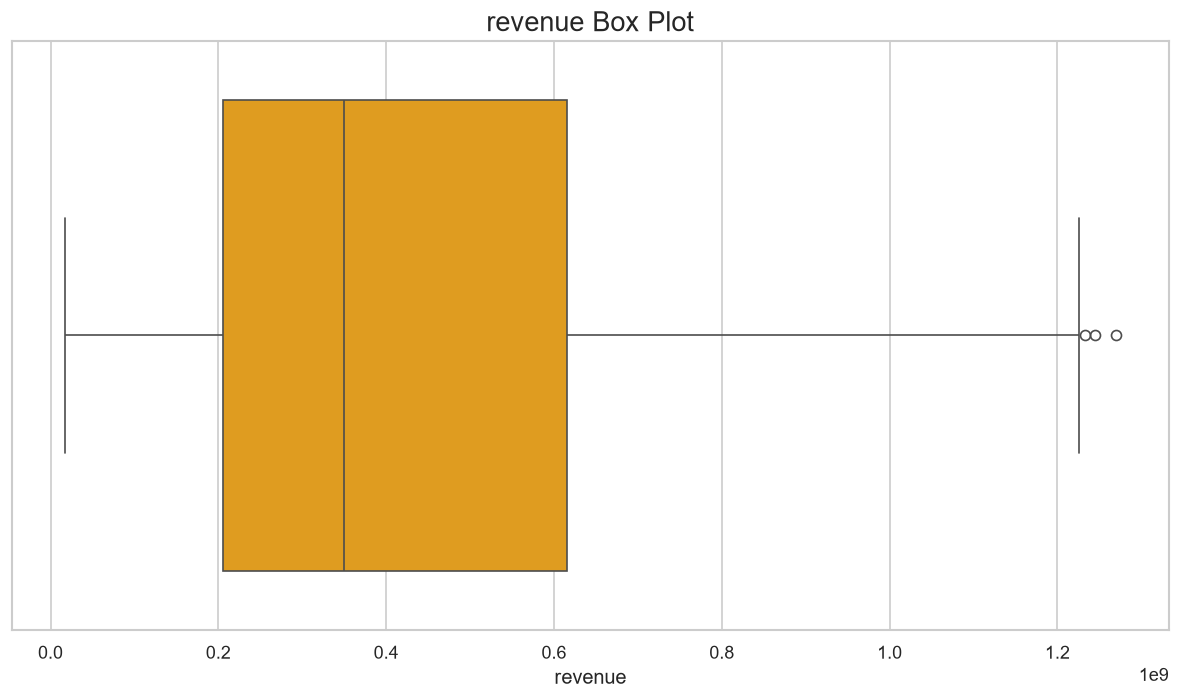
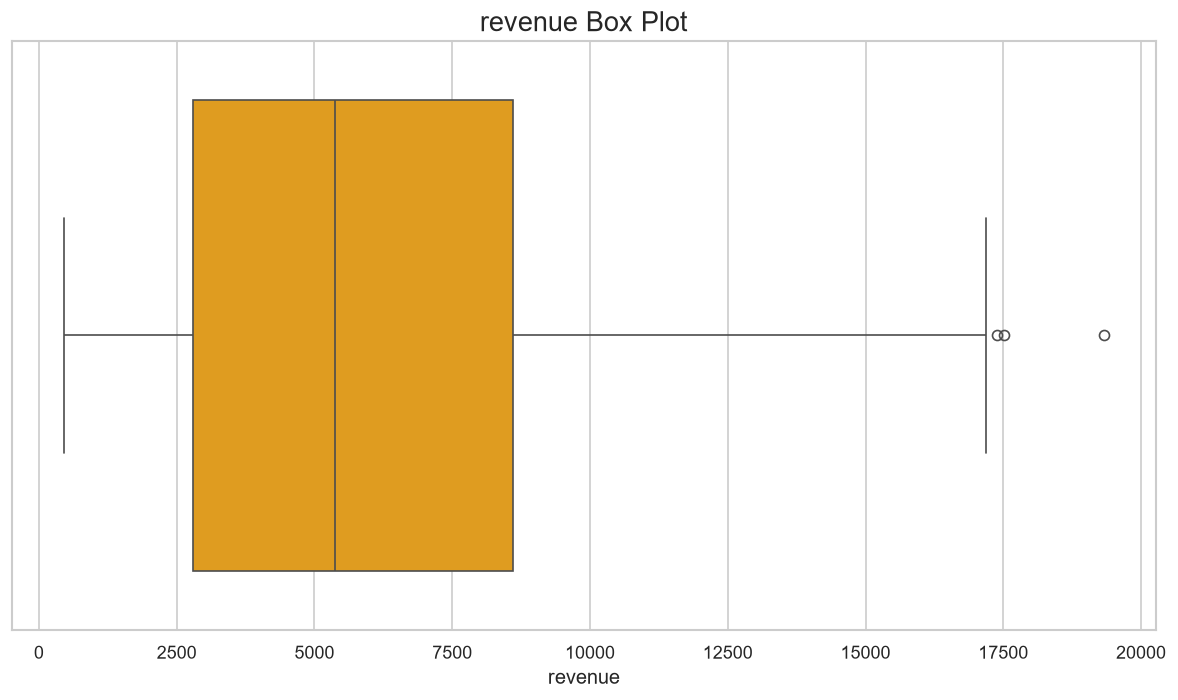
updated eda with outlier

diff --git a/backend/app/services/eda_service.py b/backend/app/services/eda_service.py
@@ -4,12 +4,14 @@ import pandas as pd
 def generate_eda(df: pd.DataFrame):
     """
     Generate Exploratory Data Analysis (EDA)
-    for the uploaded dataset.
+    including numerical statistics, categorical
+    statistics, correlations, and outlier detection.
     """
 
-    # -----------------------------
-    # Numerical Summary
-    # -----------------------------
+    # =====================================================
+    # NUMERICAL SUMMARY
+    # =====================================================
+
     numerical_summary = (
         df.describe()
         .round(2)
@@ -17,9 +19,10 @@ def generate_eda(df: pd.DataFrame):
         .to_dict()
     )
 
-    # -----------------------------
-    # Categorical Summary
-    # -----------------------------
+    # =====================================================
+    # CATEGORICAL SUMMARY
+    # =====================================================
+
     categorical_summary = {}
 
     categorical_columns = df.select_dtypes(
@@ -28,13 +31,20 @@ def generate_eda(df: pd.DataFrame):
 
     for column in categorical_columns:
 
+        mode = df[column].mode()
+
         categorical_summary[column] = {
-            "unique_values": int(df[column].nunique()),
+
+            "unique_values": int(
+                df[column].nunique()
+            ),
+
             "most_frequent": (
-                df[column].mode().iloc[0]
-                if not df[column].mode().empty
+                mode.iloc[0]
+                if not mode.empty
                 else None
             ),
+
             "top_5_values": (
                 df[column]
                 .value_counts()
@@ -43,12 +53,16 @@ def generate_eda(df: pd.DataFrame):
             )
         }
 
-    # -----------------------------
-    # Correlation Matrix
-    # -----------------------------
-    numeric_df = df.select_dtypes(include=["number"])
+    # =====================================================
+    # CORRELATION MATRIX
+    # =====================================================
+
+    numeric_df = df.select_dtypes(
+        include=["number"]
+    )
 
     if numeric_df.shape[1] >= 2:
+
         correlation_matrix = (
             numeric_df
             .corr()
@@ -56,14 +70,105 @@ def generate_eda(df: pd.DataFrame):
             .fillna("")
             .to_dict()
         )
+
     else:
+
         correlation_matrix = {}
 
-    # -----------------------------
-    # Return EDA
-    # -----------------------------
+    # =====================================================
+    # OUTLIER DETECTION
+    # =====================================================
+
+    outlier_summary = {}
+
+    for column in numeric_df.columns:
+
+        # Remove missing values
+        series = numeric_df[column].dropna()
+
+        # Need enough data to calculate meaningful quartiles
+        if len(series) < 4:
+            continue
+
+        # Calculate quartiles
+        q1 = series.quantile(0.25)
+        q3 = series.quantile(0.75)
+
+        # Calculate IQR
+        iqr = q3 - q1
+
+        # Calculate boundaries
+        lower_bound = q1 - (1.5 * iqr)
+        upper_bound = q3 + (1.5 * iqr)
+
+        # Identify outliers
+        outliers = series[
+            (series < lower_bound) |
+            (series > upper_bound)
+        ]
+
+        outlier_count = len(outliers)
+
+        total_values = len(series)
+
+        outlier_percentage = (
+            outlier_count / total_values * 100
+            if total_values > 0
+            else 0
+        )
+
+        outlier_summary[column] = {
+
+            "outlier_count": int(
+                outlier_count
+            ),
+
+            "outlier_percentage": round(
+                outlier_percentage,
+                2
+            ),
+
+            "q1": round(
+                float(q1),
+                2
+            ),
+
+            "q3": round(
+                float(q3),
+                2
+            ),
+
+            "iqr": round(
+                float(iqr),
+                2
+            ),
+
+            "lower_bound": round(
+                float(lower_bound),
+                2
+            ),
+
+            "upper_bound": round(
+                float(upper_bound),
+                2
+            )
+        }
+
+    # =====================================================
+    # RETURN EDA
+    # =====================================================
+
     return {
-        "numerical_summary": numerical_summary,
-        "categorical_summary": categorical_summary,
-        "correlation_matrix": correlation_matrix
+
+        "numerical_summary":
+            numerical_summary,
+
+        "categorical_summary":
+            categorical_summary,
+
+        "correlation_matrix":
+            correlation_matrix,
+
+        "outlier_summary":
+            outlier_summary
     }
